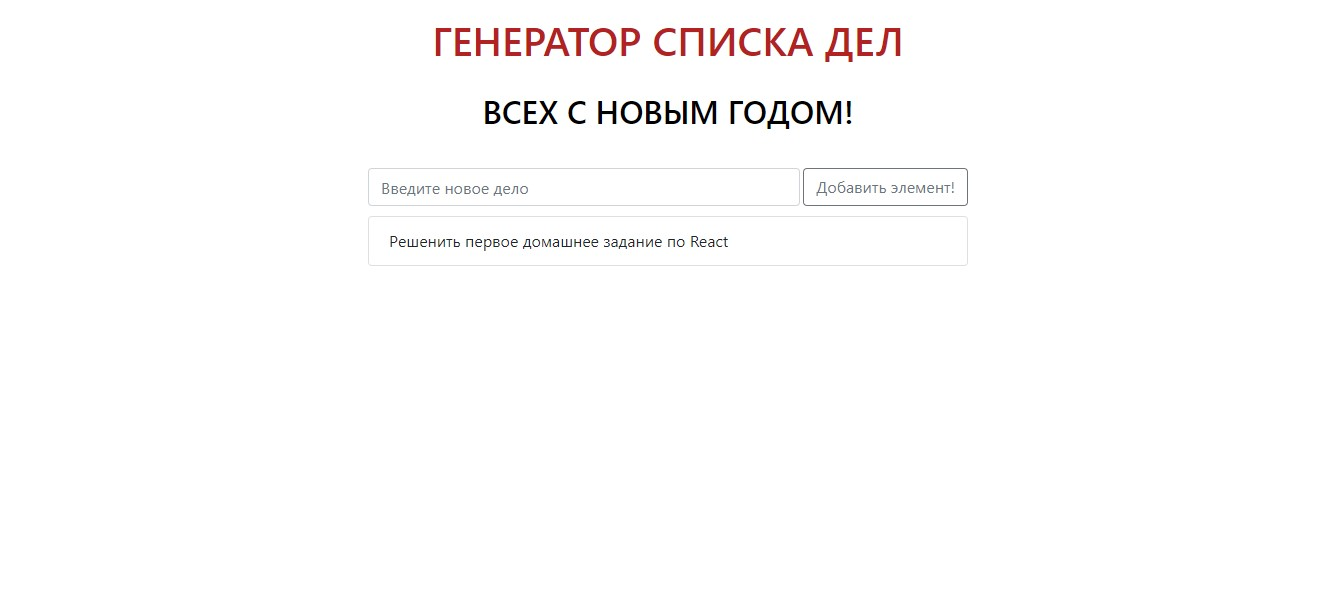
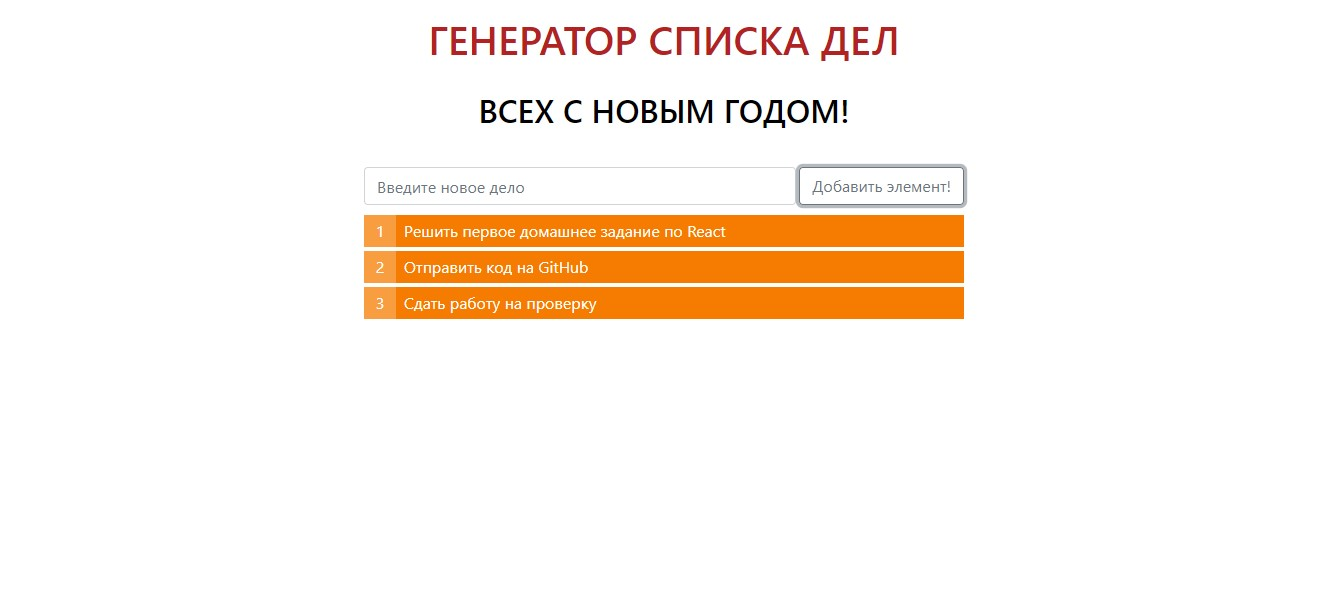
красивый вид добавления

Changed region(s): [[0.2453, 0.25, 0.736, 0.5312], [0.3067, 0.0312, 0.6746, 0.0938], [0.3373, 0.1562, 0.644, 0.2188]]

diff --git a/src/components/task-list/task-list.css b/src/components/task-list/task-list.css
@@ -1,8 +1,42 @@
-.task-list {
+.list-counter-square {
+  list-style: none;
+  counter-reset: list;
+  margin: 0;
+  padding: 0;
+  overflow: hidden;
   max-width: 600px;
   width: 100%;
   display: block;
   margin: 0 auto;
   align-items: center;
   padding-top: 10px;
+}
+.list-counter-square>li {
+  position: relative;
+  display: block;
+  height: 2rem;
+  line-height: 2rem;
+  margin-left: 2rem;
+  margin-bottom: .25rem;
+  padding-left: .5rem;
+  padding-right: .5rem;
+  color: #fff;
+  background: #f57c00;
+  white-space: nowrap;
+}
+.list-counter-square>li:last-child {
+  margin-bottom: 0;
+}
+.list-counter-square>li::before {
+  content: counter(list);
+  counter-increment: list;
+  position: absolute;
+  left: -2rem;
+  top: 0;
+  bottom: 0;
+  width: 2rem;
+  line-height: 2rem;
+  text-align: center;
+  color: #fff;
+  background: rgba(245, 124, 0, .75);
 }

diff --git a/src/components/task-list/task-list.js b/src/components/task-list/task-list.js
@@ -5,10 +5,11 @@ import TaskListItem from '../task-list-item';
 import './task-list.css';
 
 const TaskList = ({ todos }) => {
+  
   const elements = todos.map(item => {
     const { id, ...itemProps } = item;
     return (
-      <li key={id} className="list-group-item">
+      <li key={id} className="list-item">
         <TaskListItem
           {...itemProps}
         />
@@ -16,7 +17,7 @@ const TaskList = ({ todos }) => {
     );
   });
 
-  return <ul className="list-group task-list">{elements}</ul>;
+  return <ol className="list-counter-square task-list">{elements}</ol>;
 };
 
 export default TaskList;

diff --git a/src/components/task-list-item/task-list-item.js b/src/components/task-list-item/task-list-item.js
@@ -3,19 +3,18 @@ import React, { Component } from "react";
 import "./task-list-item.css";
 
 export default class TaskListItem extends Component {
-  
+
   render() {
 
-    const {
-      label
-    } = this.props;
+    const { label } = this.props;
 
     let classNames = "task-list-item";
 
-    return (
-      <span className={classNames}>
-        <span className="task-list-item-label">{label}</span>
-      </span>
-    );
+  return (
+    <span className={classNames}>
+      <span className="task-list-item-label">{label}</span>
+    </span>
+  );
+   
   }
 }

diff --git a/src/components/app/app.js b/src/components/app/app.js
@@ -13,7 +13,7 @@ export default class App extends Component {
 
   state = {
     taskData: [
-      this.createTaskItem("Решенить первое домашнее задание по React"),
+      // this.createTaskItem("Решить первое домашнее задание по React"),
     ]
   };
 
